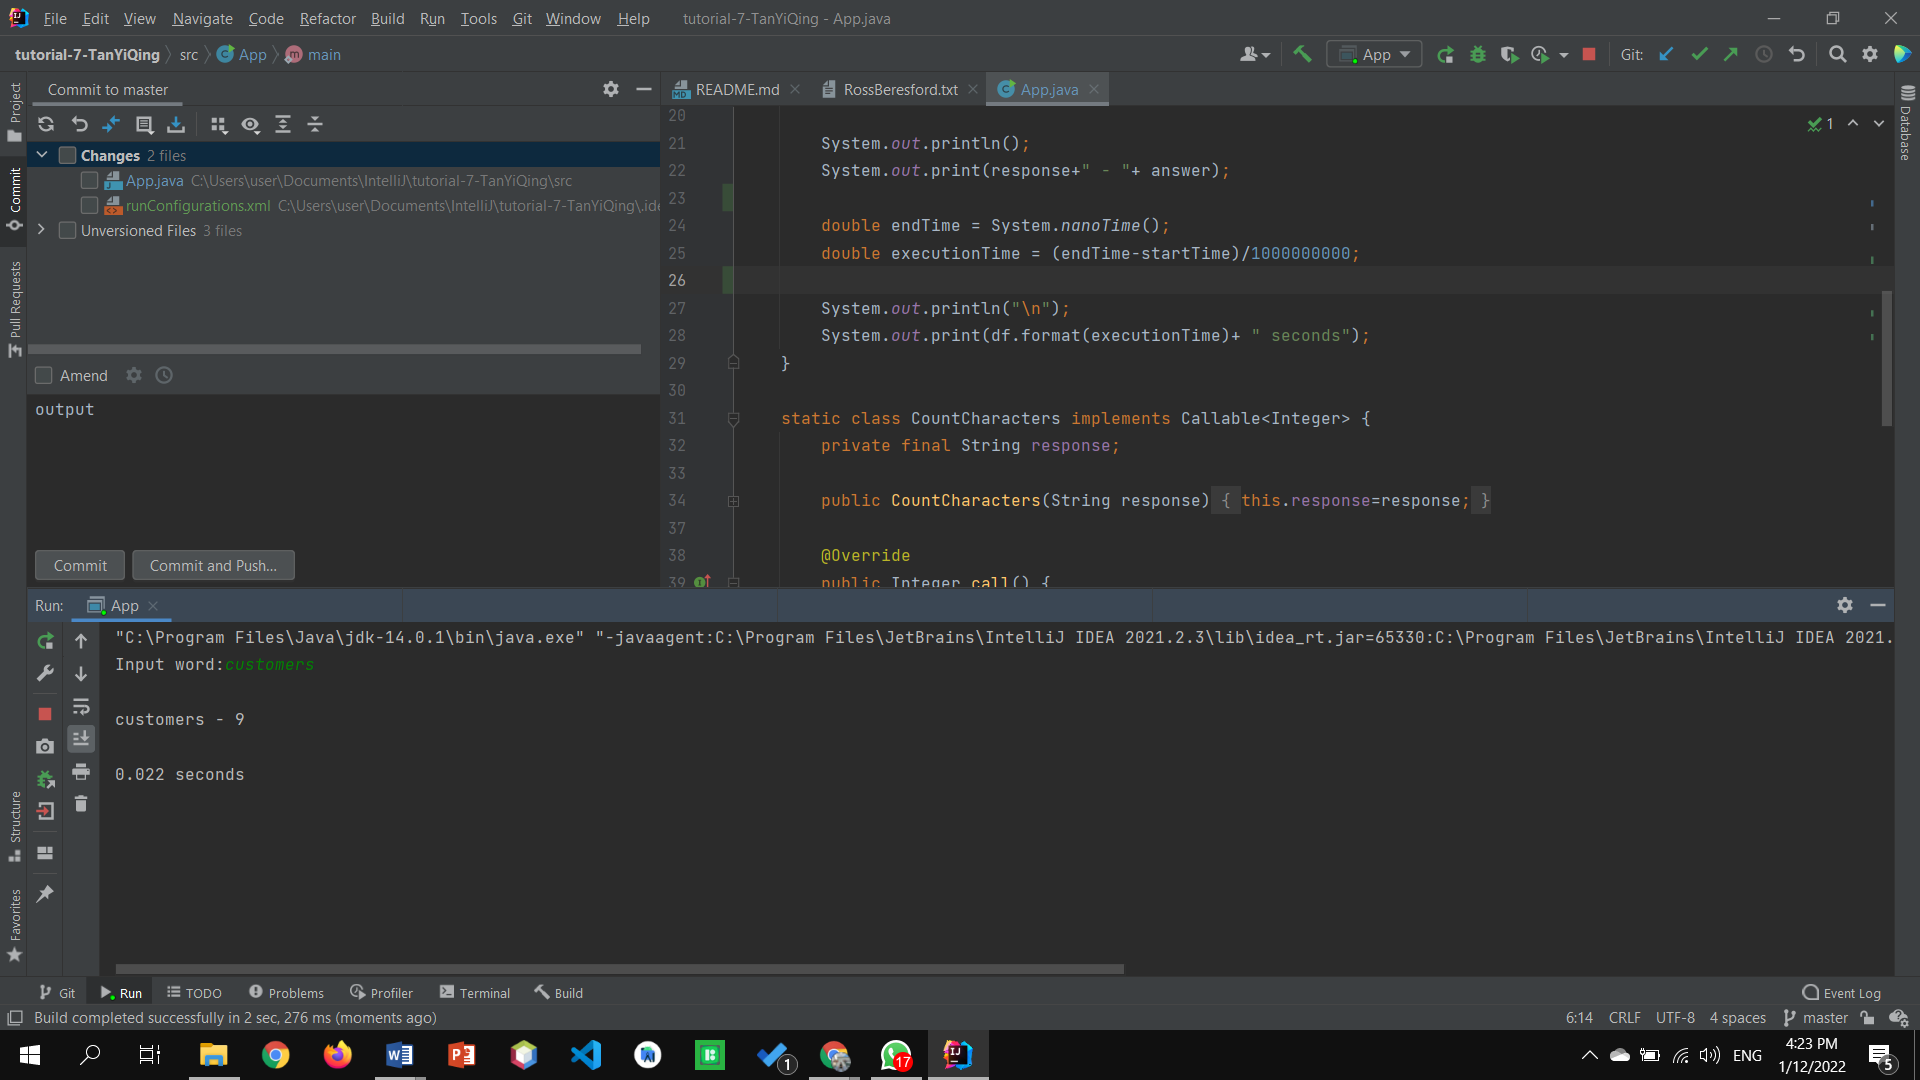
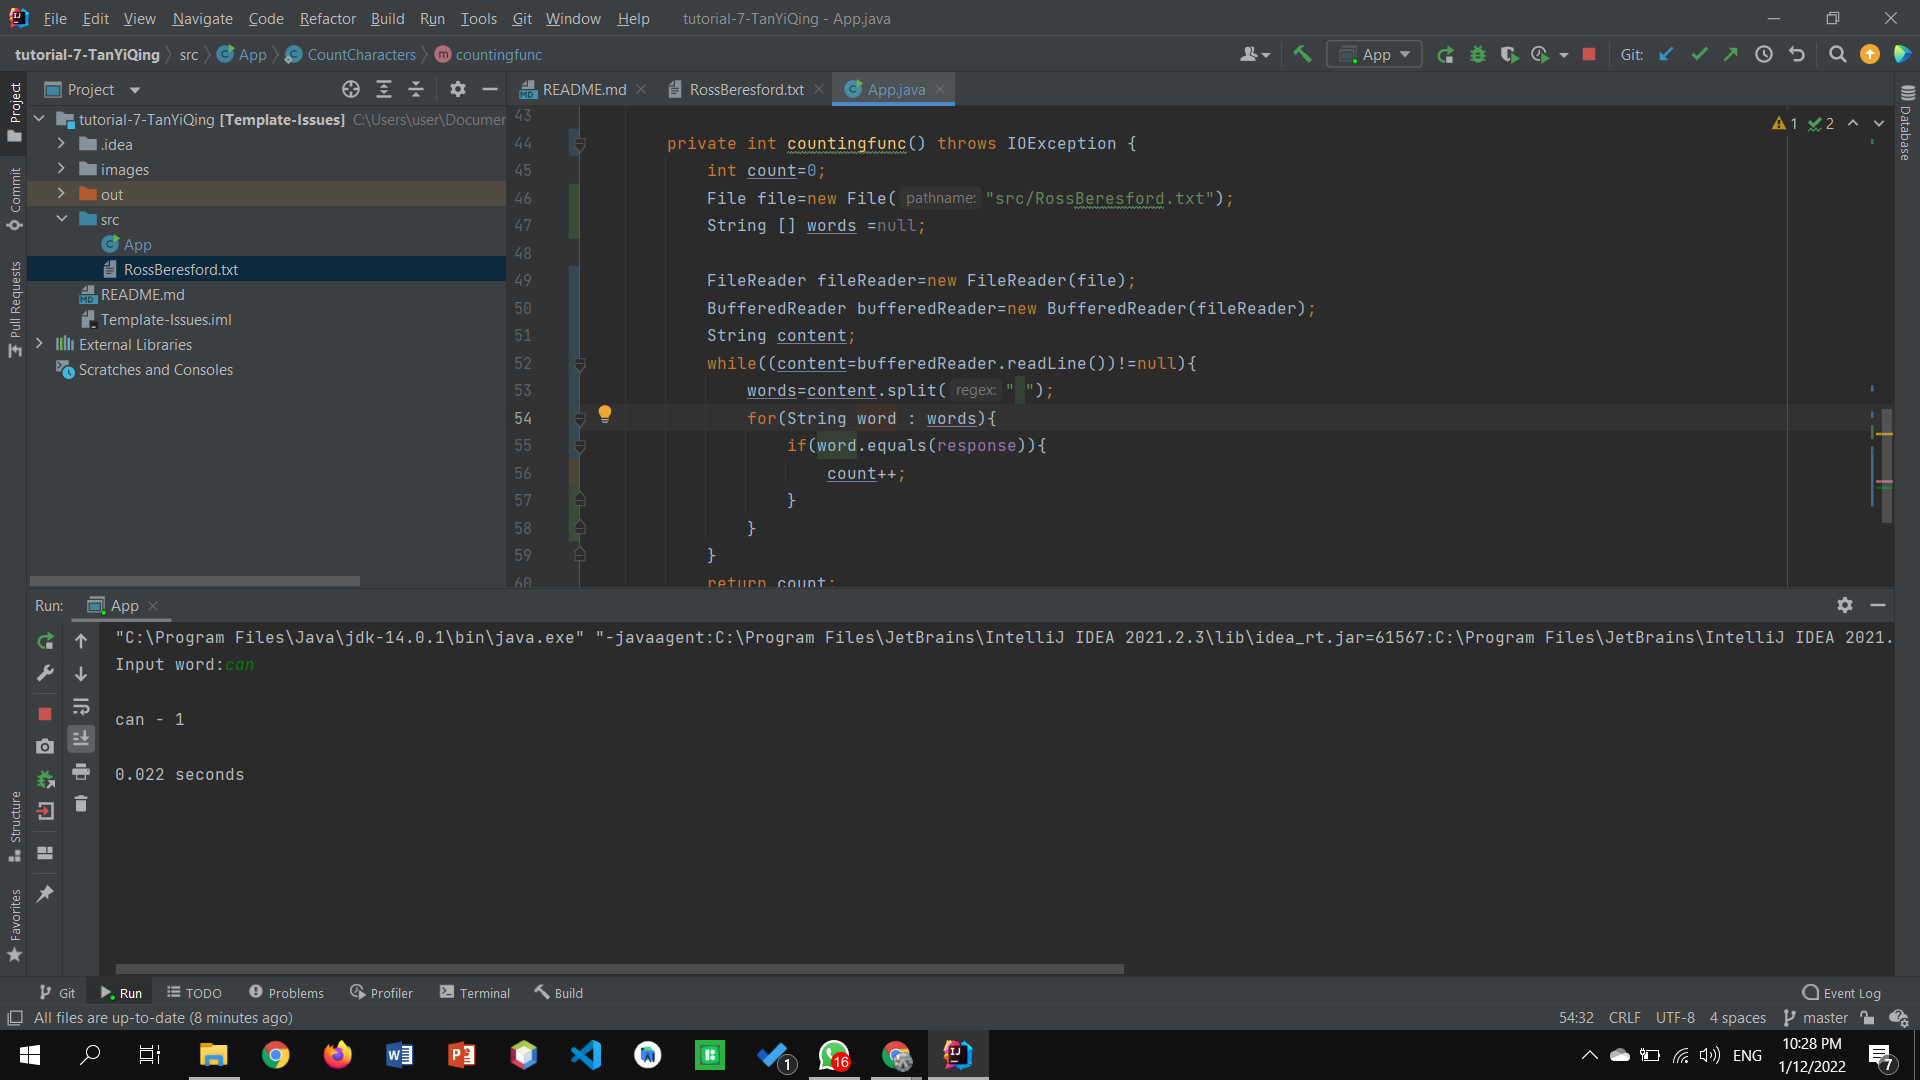
output

diff --git a/src/App.java b/src/App.java
@@ -1,3 +1,4 @@
+import java.io.*;
 import java.text.DecimalFormat;
 import java.util.concurrent.*;
 import java.util.Scanner;
@@ -36,16 +37,25 @@ public class App {
         }
 
         @Override
-        public Integer call() {
+        public Integer call() throws IOException {
             return countingfunc();
         }
 
-        private int countingfunc() {
+        private int countingfunc() throws IOException {
             int count=0;
+            File file=new File("src/RossBeresford.txt");
+            String [] words =null;
 
-            for (int i=0; i<response.length();i++){
-                if(response.charAt(i)!=' ')
-                    count++;
+            FileReader fileReader=new FileReader(file);
+            BufferedReader bufferedReader=new BufferedReader(fileReader);
+            String content;
+            while((content=bufferedReader.readLine())!=null){
+                words=content.split(" ");
+                for(String word : words){
+                    if(word.equals(response)){
+                        count++;
+                    }
+                }
             }
             return count;
         }
